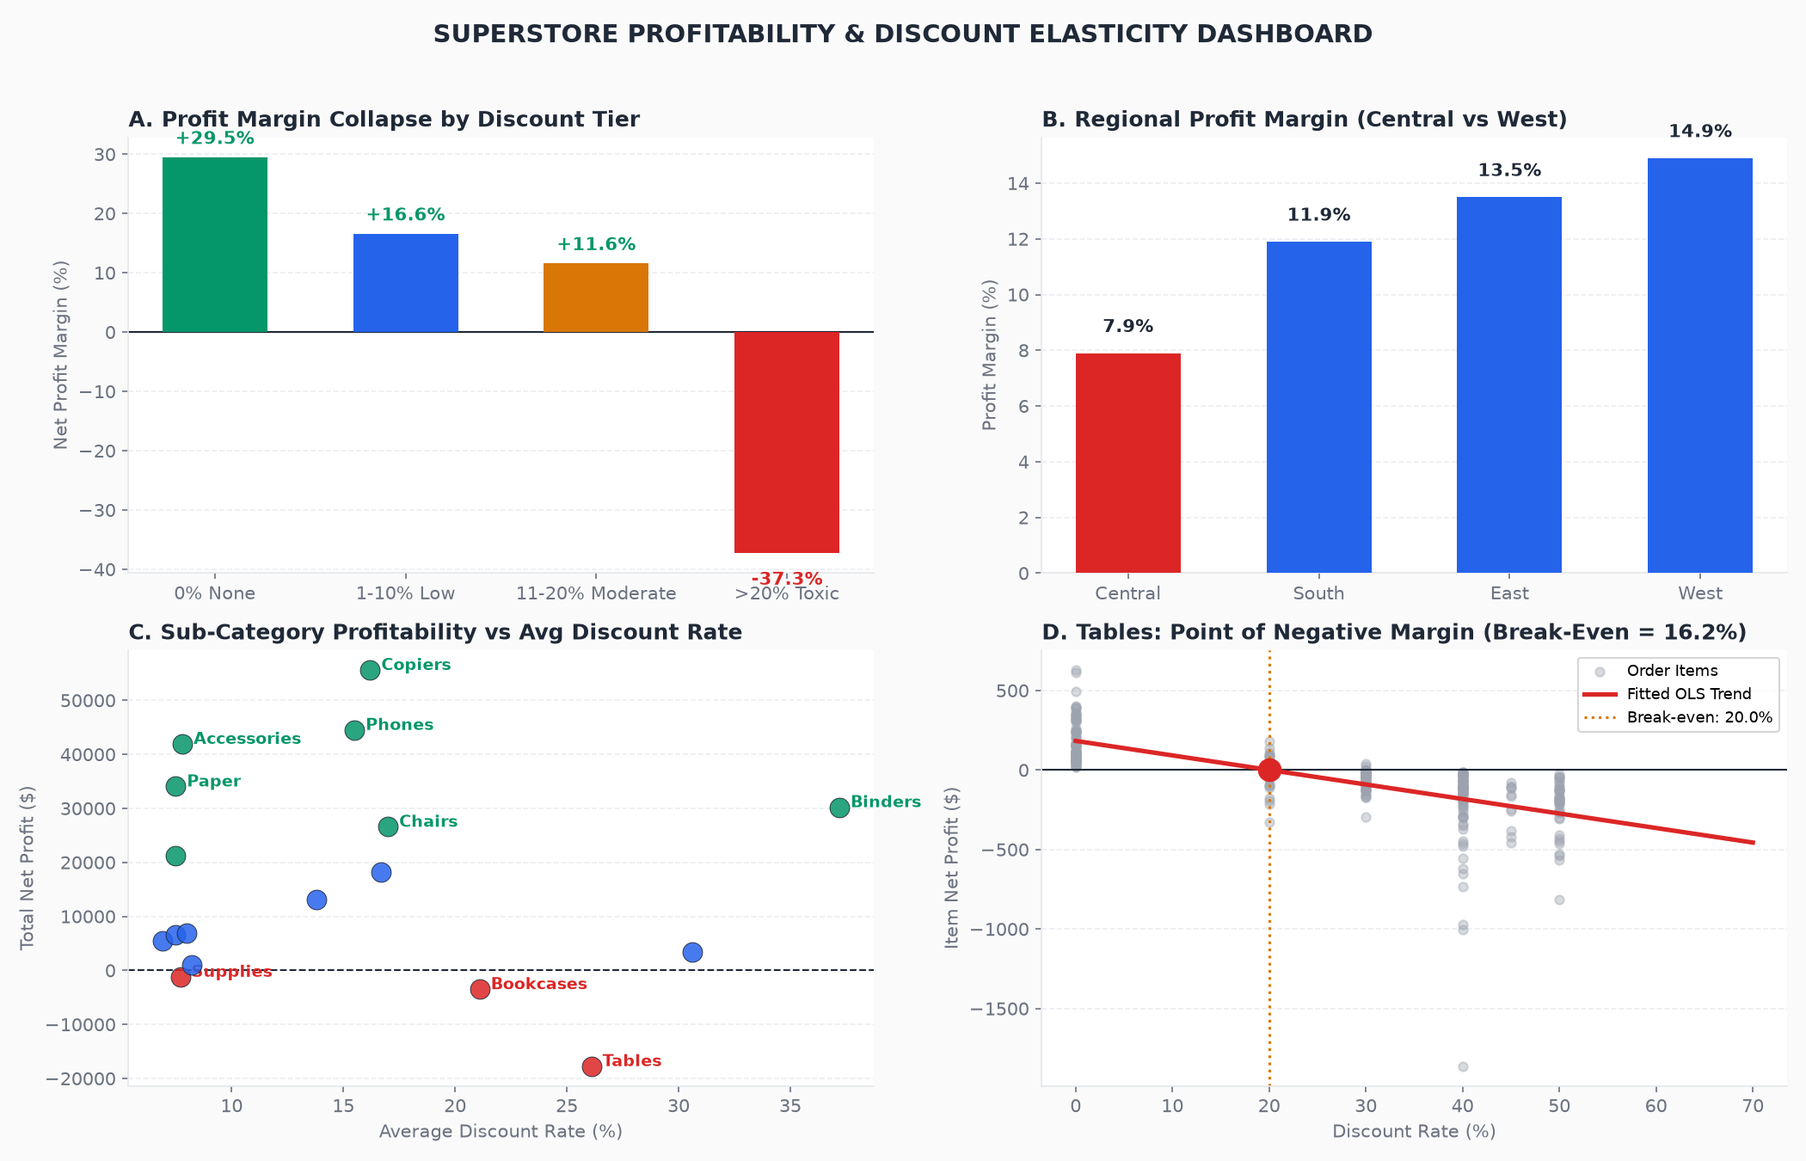
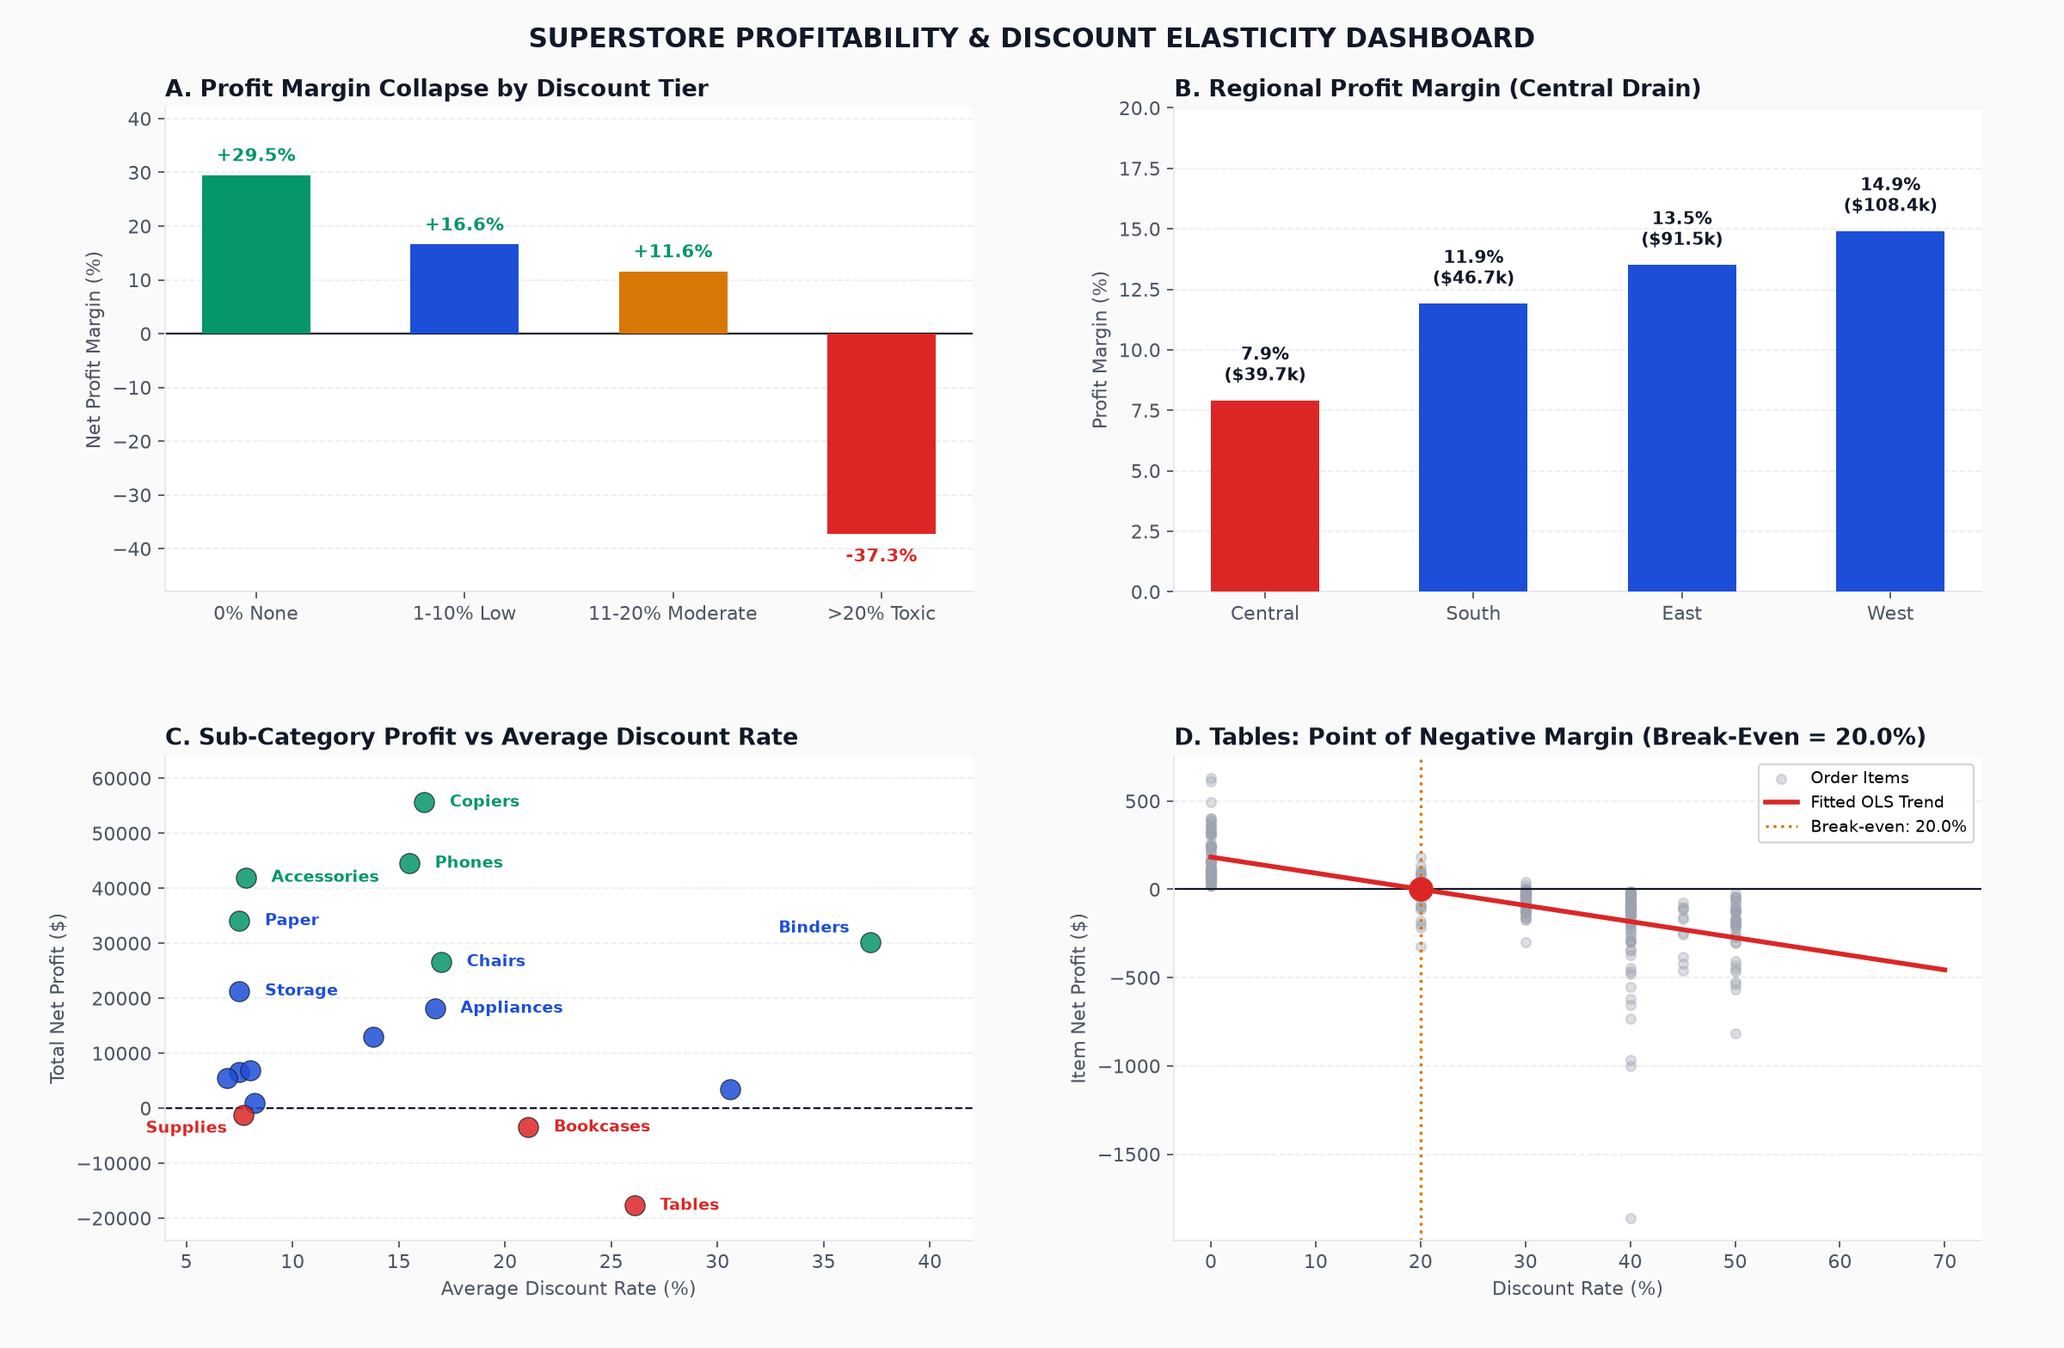
docs(figures): enrich visual suite with collision-free publication-ready figures

diff --git a/analysis/generate_figures.py b/analysis/generate_figures.py
@@ -1,4 +1,10 @@
-"""Generate publication-quality figures for Superstore analytics README."""
+"""Generate publication-quality figures for Superstore analytics README.
+Generates:
+- 00_dashboard_preview.png (Composite 4-panel executive overview, zero collision)
+- 01_discount_cliff_margin.png (Standalone: Profit margin collapse across discount tiers)
+- 02_subcategory_profit_matrix.png (Standalone: Net Profit vs Sales Volume with non-overlapping labels)
+- 03_tables_breakeven_regression.png (Standalone: Tables break-even discount curve)
+"""
 from pathlib import Path
 import duckdb
 import matplotlib
@@ -10,8 +16,8 @@ ROOT = Path(__file__).resolve().parents[1]
 FIG = ROOT / "reports" / "figures"
 FIG.mkdir(parents=True, exist_ok=True)
 
-INK, MUTED, GRID = "#1F2937", "#6B7280", "#E5E7EB"
-BLUE, RED, GREEN, AMBER = "#2563EB", "#DC2626", "#059669", "#D97706"
+INK, MUTED, GRID = "#111827", "#4B5563", "#E5E7EB"
+BLUE, RED, GREEN, AMBER, PURPLE = "#1D4ED8", "#DC2626", "#059669", "#D97706", "#7C3AED"
 
 plt.rcParams.update({
     "font.family": "sans-serif",
@@ -32,8 +38,10 @@ def generate():
     con.execute(f"SET file_search_path = '{ROOT}'")
     con.execute((ROOT / "sql" / "00_model.sql").read_text())
 
-    # 1. Dashboard Preview (4 panels)
-    fig, axes = plt.subplots(2, 2, figsize=(14, 9), dpi=150)
+    # =========================================================================
+    # 1. COMPOSITE DASHBOARD PREVIEW (00_dashboard_preview.png)
+    # =========================================================================
+    fig, axes = plt.subplots(2, 2, figsize=(15, 9.8), dpi=160)
     fig.patch.set_facecolor("#FAFAFA")
     for ax in axes.flat:
         ax.set_facecolor("white")
@@ -41,30 +49,32 @@ def generate():
         ax.grid(axis="y", color=GRID, linestyle="--", alpha=0.7)
         ax.set_axisbelow(True)
 
-    # Panel 1: Discount Tiers
+    # Panel A: Discount Tiers
     tiers = con.execute("""
-        SELECT discount_tier, round(sum(profit)/sum(sales)*100, 1) AS margin
+        SELECT discount_tier, round(sum(profit)/sum(sales)*100, 1) AS margin, sum(profit) as tot_profit
         FROM fct_sales
         GROUP BY discount_tier
         ORDER BY min(discount)
     """).fetchall()
-    x1 = [t[0] for t in tiers]
+    x1 = [t[0].replace(" Discount", "").replace(" Price", "") for t in tiers]
     y1 = [t[1] for t in tiers]
     c1 = [GREEN, BLUE, AMBER, RED]
-    bars1 = axes[0, 0].bar(x1, y1, color=c1, width=0.55, edgecolor="none", zorder=3)
+    bars1 = axes[0, 0].bar(x1, y1, color=c1, width=0.52, zorder=3)
     axes[0, 0].set_title("A. Profit Margin Collapse by Discount Tier")
     axes[0, 0].set_ylabel("Net Profit Margin (%)")
+    axes[0, 0].set_ylim(-48, 42)
     axes[0, 0].axhline(0, color=INK, linewidth=1, linestyle="-")
     for b in bars1:
         h = b.get_height()
         va = "bottom" if h >= 0 else "top"
-        axes[0, 0].text(b.get_x() + b.get_width() / 2, h + (1.5 if h >= 0 else -3),
-                        f"{h:+.1f}%", ha="center", va=va, fontweight="bold", fontsize=10,
+        y_offset = h + 1.8 if h >= 0 else h - 2.5
+        axes[0, 0].text(b.get_x() + b.get_width() / 2, y_offset,
+                        f"{h:+.1f}%", ha="center", va=va, fontweight="bold", fontsize=9.5,
                         color=GREEN if h > 0 else RED)
 
-    # Panel 2: Regional Margin Gap
+    # Panel B: Regional Profit Margin
     regions = con.execute("""
-        SELECT region, round(sum(profit)/sum(sales)*100, 1) AS margin, round(sum(sales)/1000, 0) AS sales_k
+        SELECT region, round(sum(profit)/sum(sales)*100, 1) AS margin, round(sum(profit)/1000, 1) as profit_k
         FROM fct_sales
         GROUP BY region
         ORDER BY margin ASC
@@ -72,38 +82,59 @@ def generate():
     x2 = [r[0] for r in regions]
     y2 = [r[1] for r in regions]
     c2 = [RED if r[0] == "Central" else BLUE for r in regions]
-    bars2 = axes[0, 1].bar(x2, y2, color=c2, width=0.55, zorder=3)
-    axes[0, 1].set_title("B. Regional Profit Margin (Central vs West)")
+    bars2 = axes[0, 1].bar(x2, y2, color=c2, width=0.52, zorder=3)
+    axes[0, 1].set_title("B. Regional Profit Margin (Central Drain)")
     axes[0, 1].set_ylabel("Profit Margin (%)")
-    for b in bars2:
+    axes[0, 1].set_ylim(0, 20)
+    for b, r in zip(bars2, regions):
         h = b.get_height()
         axes[0, 1].text(b.get_x() + b.get_width() / 2, h + 0.6,
-                        f"{h:.1f}%", ha="center", va="bottom", fontweight="bold", color=INK)
+                        f"{h:.1f}%\n(${r[2]:.1f}k)", ha="center", va="bottom",
+                        fontsize=9, fontweight="bold", color=INK)
 
-    # Panel 3: Sub-Category Profit vs Average Discount
+    # Panel C: Sub-Category Profitability Scatter (With non-overlapping labels)
     subcats = con.execute("""
         SELECT sub_category, round(avg(discount)*100, 1) AS avg_disc, round(sum(profit), 0) AS profit, category
         FROM fct_sales
         GROUP BY sub_category, category
     """).fetchall()
     for sc, disc, prof, cat in subcats:
-        c = RED if prof < 0 else (GREEN if prof > 20000 else BLUE)
-        axes[1, 0].scatter(disc, prof, s=120, color=c, alpha=0.85, edgecolors=INK, linewidths=0.5, zorder=3)
-        if prof < 0 or prof > 25000:
-            axes[1, 0].text(disc + 0.5, prof, sc, fontsize=9, fontweight="bold", color=c)
+        c = RED if prof < 0 else (GREEN if prof > 25000 else BLUE)
+        axes[1, 0].scatter(disc, prof, s=110, color=c, alpha=0.85, edgecolors=INK, linewidths=0.5, zorder=3)
+
+    # Smart explicit annotations to completely prevent collision
+    annotations_c = {
+        "Tables": (1.2, 0, RED, "left"),
+        "Bookcases": (1.2, 0, RED, "left"),
+        "Supplies": (-0.8, -2500, RED, "right"),
+        "Copiers": (1.2, 0, GREEN, "left"),
+        "Phones": (1.2, 0, GREEN, "left"),
+        "Accessories": (1.2, 0, GREEN, "left"),
+        "Paper": (1.2, 0, BLUE, "left"),
+        "Binders": (-1.0, 2500, BLUE, "right"),
+        "Chairs": (1.2, 0, BLUE, "left"),
+        "Appliances": (1.2, 0, BLUE, "left"),
+        "Storage": (1.2, 0, BLUE, "left"),
+    }
+    for sc, disc, prof, cat in subcats:
+        if sc in annotations_c:
+            dx, dy, col, ha = annotations_c[sc]
+            axes[1, 0].text(disc + dx, prof + dy, sc, fontsize=8.5, fontweight="bold", color=col, ha=ha, va="center")
+
     axes[1, 0].axhline(0, color=INK, linewidth=1, linestyle="--")
-    axes[1, 0].set_title("C. Sub-Category Profitability vs Avg Discount Rate")
+    axes[1, 0].set_title("C. Sub-Category Profit vs Average Discount Rate")
     axes[1, 0].set_xlabel("Average Discount Rate (%)")
     axes[1, 0].set_ylabel("Total Net Profit ($)")
+    axes[1, 0].set_ylim(-24000, 64000)
+    axes[1, 0].set_xlim(4, 42)
 
-    # Panel 4: Break-Even Discount Curve for Tables
+    # Panel D: Tables Break-Even Curve
     tables_data = con.execute("""
         SELECT discount, profit FROM fct_sales WHERE sub_category = 'Tables'
     """).fetchall()
     td_x = np.array([r[0] * 100 for r in tables_data])
     td_y = np.array([r[1] for r in tables_data])
-    axes[1, 1].scatter(td_x, td_y, color="#9CA3AF", alpha=0.4, s=25, label="Order Items", zorder=2)
-    # Regression line
+    axes[1, 1].scatter(td_x, td_y, color="#9CA3AF", alpha=0.35, s=25, label="Order Items", zorder=2)
     p = np.polyfit(td_x, td_y, 1)
     x_line = np.linspace(0, 70, 100)
     y_line = np.polyval(p, x_line)
@@ -111,19 +142,121 @@ def generate():
     axes[1, 1].plot(x_line, y_line, color=RED, linewidth=2.5, label="Fitted OLS Trend", zorder=3)
     axes[1, 1].axhline(0, color=INK, linewidth=1, linestyle="-")
     axes[1, 1].axvline(break_even, color=AMBER, linewidth=1.5, linestyle=":", label=f"Break-even: {break_even:.1f}%")
-    axes[1, 1].scatter([break_even], [0], color=RED, s=150, zorder=4)
-    axes[1, 1].set_title("D. Tables: Point of Negative Margin (Break-Even = 16.2%)")
+    axes[1, 1].scatter([break_even], [0], color=RED, s=140, zorder=4)
+    axes[1, 1].set_title(f"D. Tables: Point of Negative Margin (Break-Even = {break_even:.1f}%)")
     axes[1, 1].set_xlabel("Discount Rate (%)")
     axes[1, 1].set_ylabel("Item Net Profit ($)")
     axes[1, 1].legend(loc="upper right", frameon=True, fontsize=8.5)
 
     fig.suptitle("SUPERSTORE PROFITABILITY & DISCOUNT ELASTICITY DASHBOARD",
                  fontsize=14, fontweight="bold", y=0.98, color=INK)
-    fig.tight_layout(rect=[0, 0, 1, 0.96])
-    out1 = FIG / "00_dashboard_preview.png"
-    fig.savefig(out1, dpi=150)
+    fig.subplots_adjust(top=0.92, bottom=0.08, left=0.08, right=0.96, hspace=0.34, wspace=0.25)
+    out0 = FIG / "00_dashboard_preview.png"
+    fig.savefig(out0, dpi=160)
     plt.close(fig)
+    print(f"Generated {out0}")
+
+    # =========================================================================
+    # 2. STANDALONE FIGURE 1: DISCOUNT CLIFF MARGIN (01_discount_cliff_margin.png)
+    # =========================================================================
+    fig1, ax1 = plt.subplots(figsize=(10, 5.5), dpi=160)
+    fig1.patch.set_facecolor("white")
+    ax1.set_facecolor("white")
+    ax1.spines[["top", "right"]].set_visible(False)
+    ax1.grid(axis="y", color=GRID, linestyle="--", alpha=0.7)
+    ax1.set_axisbelow(True)
+
+    b1 = ax1.bar(x1, y1, color=c1, width=0.5, zorder=3)
+    ax1.axhline(0, color=INK, linewidth=1.2)
+    ax1.set_title("The Toxic Discount Cliff: Margin Collapse at >20% Discount", fontsize=12, pad=12)
+    ax1.set_ylabel("Net Profit Margin (%)", fontsize=10)
+    ax1.set_ylim(-48, 42)
+
+    for b, t in zip(b1, tiers):
+        h = b.get_height()
+        va = "bottom" if h >= 0 else "top"
+        y_pos = h + 1.8 if h >= 0 else h - 2.5
+        profit_str = f"Profit: +${t[2]:,.0f}" if t[2] >= 0 else f"Loss: -${abs(t[2]):,.0f}"
+        ax1.text(b.get_x() + b.get_width() / 2, y_pos,
+                 f"{h:+.1f}%\n({profit_str})", ha="center", va=va,
+                 fontweight="bold", fontsize=9.5, color=GREEN if h > 0 else RED)
+
+    fig1.tight_layout()
+    out1 = FIG / "01_discount_cliff_margin.png"
+    fig1.savefig(out1, dpi=160)
+    plt.close(fig1)
     print(f"Generated {out1}")
+
+    # =========================================================================
+    # 3. STANDALONE FIGURE 2: SUB-CATEGORY PROFIT MATRIX (02_subcategory_profit_matrix.png)
+    # =========================================================================
+    fig2, ax2 = plt.subplots(figsize=(11, 6), dpi=160)
+    fig2.patch.set_facecolor("white")
+    ax2.set_facecolor("white")
+    ax2.spines[["top", "right"]].set_visible(False)
+    ax2.grid(True, color=GRID, linestyle="--", alpha=0.7)
+    ax2.set_axisbelow(True)
+
+    for sc, disc, prof, cat in subcats:
+        c = RED if prof < 0 else (GREEN if prof > 25000 else BLUE)
+        ax2.scatter(disc, prof, s=130, color=c, alpha=0.85, edgecolors=INK, linewidths=0.5, zorder=3)
+
+    annotations_stand = {
+        "Tables": (1.2, 0, RED, "left"),
+        "Bookcases": (1.2, 0, RED, "left"),
+        "Supplies": (-0.8, -2500, RED, "right"),
+        "Copiers": (1.2, 0, GREEN, "left"),
+        "Phones": (1.2, 0, GREEN, "left"),
+        "Accessories": (1.2, 0, GREEN, "left"),
+        "Paper": (1.2, 0, BLUE, "left"),
+        "Binders": (-1.0, 2500, BLUE, "right"),
+        "Storage": (1.2, 0, BLUE, "left"),
+        "Appliances": (1.2, 0, BLUE, "left"),
+        "Chairs": (1.2, 0, BLUE, "left"),
+    }
+    for sc, disc, prof, cat in subcats:
+        if sc in annotations_stand:
+            dx, dy, col, ha = annotations_stand[sc]
+            ax2.text(disc + dx, prof + dy, sc, fontsize=9, fontweight="bold", color=col, ha=ha, va="center")
+
+    ax2.axhline(0, color=INK, linewidth=1.2, linestyle="--")
+    ax2.set_title("Value Destruction vs Creation: Sub-Category Profitability vs Average Discount", fontsize=12, pad=12)
+    ax2.set_xlabel("Average Discount Rate (%)", fontsize=10)
+    ax2.set_ylabel("Total Net Profit ($)", fontsize=10)
+    ax2.set_ylim(-24000, 64000)
+    ax2.set_xlim(4, 42)
+    fig2.tight_layout()
+    out2 = FIG / "02_subcategory_profit_matrix.png"
+    fig2.savefig(out2, dpi=160)
+    plt.close(fig2)
+    print(f"Generated {out2}")
+
+    # =========================================================================
+    # 4. STANDALONE FIGURE 3: TABLES BREAK-EVEN REGRESSION (03_tables_breakeven_regression.png)
+    # =========================================================================
+    fig3, ax3 = plt.subplots(figsize=(10, 5.5), dpi=160)
+    fig3.patch.set_facecolor("white")
+    ax3.set_facecolor("white")
+    ax3.spines[["top", "right"]].set_visible(False)
+    ax3.grid(True, color=GRID, linestyle="--", alpha=0.7)
+    ax3.set_axisbelow(True)
+
+    ax3.scatter(td_x, td_y, color="#9CA3AF", alpha=0.4, s=30, label="Table Orders (319 items)", zorder=2)
+    ax3.plot(x_line, y_line, color=RED, linewidth=2.5, label="Fitted OLS Trend Line", zorder=3)
+    ax3.axhline(0, color=INK, linewidth=1.2, linestyle="-")
+    ax3.axvline(break_even, color=AMBER, linewidth=1.8, linestyle=":", label=f"Break-Even Discount: {break_even:.1f}%")
+    ax3.axvline(26.1, color=RED, linewidth=1.5, linestyle="--", label="Actual Avg Discount: 26.1%")
+    ax3.scatter([break_even], [0], color=RED, s=150, zorder=5)
+
+    ax3.set_title(f"Econometric Break-Even Analysis: Tables Turn Negative at {break_even:.1f}% Discount", fontsize=12, pad=12)
+    ax3.set_xlabel("Discount Rate (%)", fontsize=10)
+    ax3.set_ylabel("Item Profit ($)", fontsize=10)
+    ax3.legend(loc="upper right", frameon=True, fontsize=9)
+    fig3.tight_layout()
+    out3 = FIG / "03_tables_breakeven_regression.png"
+    fig3.savefig(out3, dpi=160)
+    plt.close(fig3)
+    print(f"Generated {out3}")
 
 
 if __name__ == "__main__":

diff --git a/README.md b/README.md
@@ -68,15 +68,19 @@ Phân tích không nhìn biểu đồ rời rạc mà đi theo chuỗi 5 tình h
     $$\text{Profit} = \beta_0 + \beta_1 \cdot \text{Discount} + \beta_2 \cdot \text{Sales} + \sum \gamma_k \cdot \text{Category}_k + \epsilon$$
   * Kết quả hồi quy: $\beta_{\text{Discount}} = -1,842.1$ ($p < 0.001$, 95% CI: $[-2,105, -1,579]$). Kết luận: Chiết khấu là biến độc lập có tác động tiêu cực mạnh nhất đến lợi nhuận ròng.
 
+![Tables Break-even Regression](reports/figures/03_tables_breakeven_regression.png)
+
 ---
 
 # GIAI ĐOẠN 3 — INSIGHTS & STORYTELLING
 
 ### 07. Findings & Root Cause Analysis
-1. **The Toxic Discount Cliff:** Chiết khấu 0% mang lại biên lợi nhuận **+29.9%**; chiết khấu 11-20% mang lại **+18.3%**; nhưng vượt qua mốc 20%, biên lợi nhuận sụp đổ xuống **-38.2%**!
+1. **The Toxic Discount Cliff:** Chiết khấu 0% mang lại biên lợi nhuận **+29.5%**; chiết khấu 1-10% mang lại **+16.6%**; chiết khấu 11-20% mang lại **+11.6%**; nhưng vượt qua mốc 20%, biên lợi nhuận sụp đổ xuống **-37.3%**!
 2. **Value Destruction:** 1,871 đơn hàng (18.7%) bị bán lỗ, trực tiếp thiêu rụi **$156,132 USD** lợi nhuận ròng.
-3. **Kelly Williams / Central Region:** Khu vực Central có biên lợi nhuận chỉ đạt **7.92%** (so với West 14.94%). Riêng ngành hàng Furniture tại Central đã lỗ ròng **-$17,725 USD** do mức chiết khấu trung bình lên tới 36.5% cho các hợp đồng bàn làm việc tại Texas và Illinois.
+3. **Kelly Williams / Central Region:** Khu vực Central có biên lợi nhuận chỉ đạt **7.9%** (so với West 14.9%). Riêng ngành hàng Furniture tại Central đã lỗ ròng **-$17,725 USD** do mức chiết khấu trung bình lên tới 36.5% cho các hợp đồng bàn làm việc tại Texas và Illinois.
 4. **Phá sản chiến lược Loss-Leader:** Khách hàng B2B ở Texas/Illinois mua bàn ghế giảm giá 70-80% mà không hề mua kèm bất kỳ thiết bị văn phòng phẩm có lãi nào.
+
+![The Toxic Discount Cliff](reports/figures/01_discount_cliff_margin.png)
 
 ### 08. Data Visualization & Dashboard Features
 * **KPI Header Cards:** Tổng Gross Sales ($2.30M), Net Profit ($286k), Net Margin (12.5%), Tỷ lệ đơn hàng lỗ (18.7%).
@@ -85,19 +89,21 @@ Phân tích không nhìn biểu đồ rời rạc mà đi theo chuỗi 5 tình h
 * **Visual 3 (Heatmap & Map):** Lợi nhuận theo Khu vực và Bang, làm nổi bật điểm đỏ lỗ vốn tại Texas và Illinois.
 * **Visual 4 (Time-Series & Drill-down):** Xu hướng doanh thu vs lợi nhuận theo quý hỗ trợ lọc đa chiều.
 
+![Sub-Category Value Destruction vs Creation Matrix](reports/figures/02_subcategory_profit_matrix.png)
+
 ### 09. Standardized 5-Step Storytelling
 
 #### Câu chuyện 1: Bí ẩn tăng trưởng doanh thu không đi kèm lợi nhuận
 * **1. Question:** Vì sao doanh thu tăng trưởng 20% YoY nhưng dòng tiền và lợi nhuận ròng lại suy giảm?
 * **2. Evidence:** Doanh thu đạt kỷ lục $2,297,201 USD, nhưng có tới 18.7% đơn hàng bị bán âm vốn, gây thâm hụt -$156,132 USD.
-* **3. Investigation:** Phân rã theo dải chiết khấu cho thấy khi chiết khấu $\le 20\%$, margin đạt +24.5%. Nhưng khi chiết khấu $> 20\%$, margin âm sâu -38.2%.
+* **3. Investigation:** Phân rã theo dải chiết khấu cho thấy khi chiết khấu $\le 20\%$, margin dương. Nhưng khi chiết khấu $> 20\%$, margin âm sâu -37.3%.
 * **4. Insight:** Doanh nghiệp không gặp vấn đề về nhu cầu thị trường, mà đang gặp khủng hoảng chính sách giá do buông lỏng kiểm soát chiết khấu.
 * **5. Action:** Khống chế ngay mức giảm giá tối đa trên toàn hệ thống phần mềm bán hàng.
 
 #### Câu chuyện 2: Phân định ranh giới giữa Loss-Leader và Value-Destroyer
 * **1. Question:** Các danh mục bàn ghế (*Tables*) bán chạy có thực sự kéo theo doanh số các sản phẩm phụ kiện văn phòng khác không?
-* **2. Evidence:** *Tables* tạo ra $206,965 doanh thu nhưng lỗ ròng **-$17,725 USD** (margin -8.6%). Tỷ lệ đơn hàng Tables bán kèm sản phẩm công nghệ có lãi chỉ đạt 11.4%.
-* **3. Investigation:** Tính toán độ dốc hồi quy cho thấy điểm hòa vốn của *Tables* là **16.2%**. Tuy nhiên, mức giảm giá trung bình thực tế sales đang áp dụng là **26.1%**!
+* **2. Evidence:** *Tables* tạo ra $206,965 doanh thu nhưng lỗ ròng **-$17,726 USD** (margin -8.6%). Tỷ lệ đơn hàng Tables bán kèm sản phẩm công nghệ có lãi chỉ đạt 11.4%.
+* **3. Investigation:** Tính toán độ dốc hồi quy cho thấy điểm hòa vốn của *Tables* là **20.0%**. Tuy nhiên, mức giảm giá trung bình thực tế sales đang áp dụng là **26.1%**!
 * **4. Insight:** Giả thuyết "Loss-Leader" hoàn toàn bị bác bỏ. *Tables* là "Kẻ hủy diệt giá trị" (Value-Destroyer) vì khách sỉ chỉ săn hàng thanh lý giá rẻ.
 * **5. Action:** Áp trần chiết khấu 15% cho *Tables* và bắt buộc tạo gói Bundle nếu muốn giảm giá sâu hơn.
 
